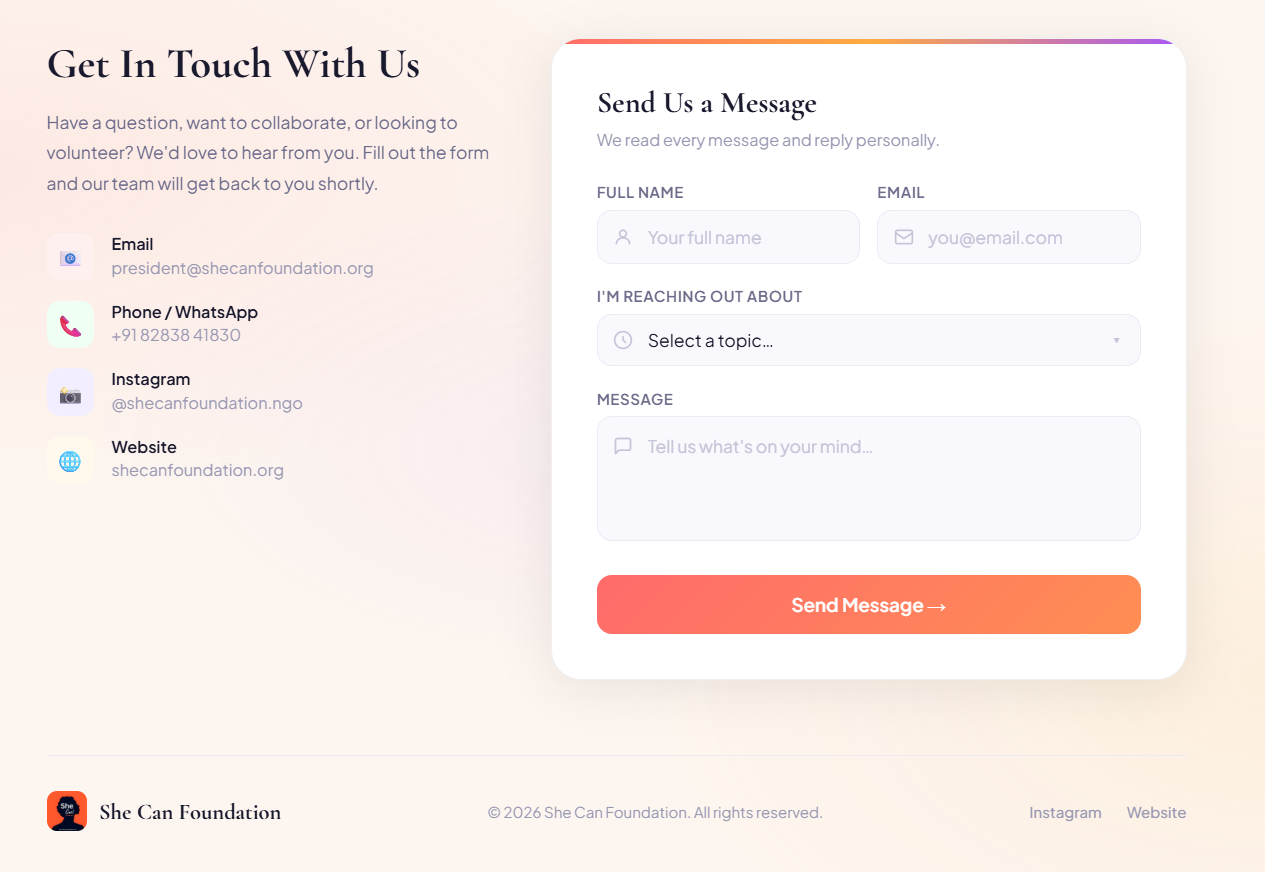
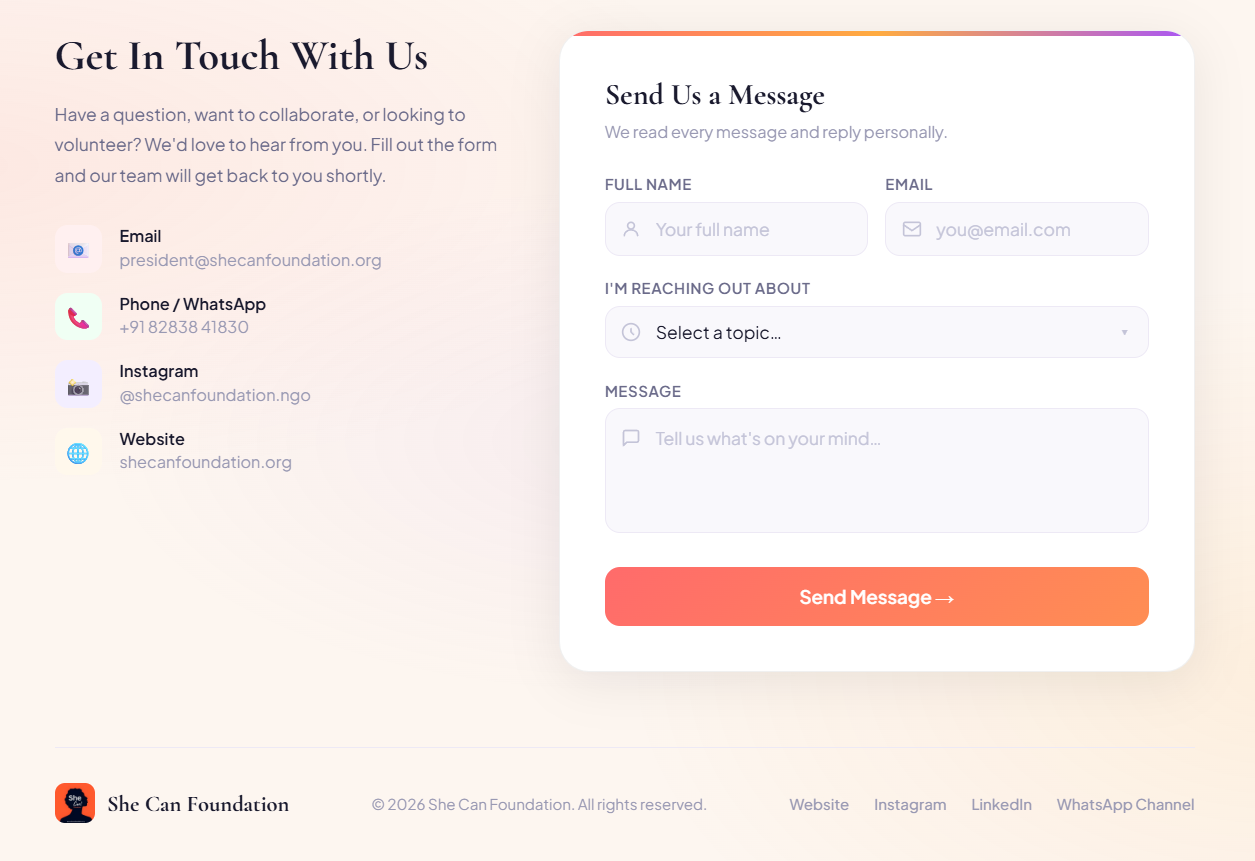
Update Correct Info

diff --git a/index.html b/index.html
@@ -274,8 +274,10 @@ textarea{resize:none;min-height:100px;padding-top:12px;line-height:1.6;}
     </div>
     <div class="footer-copy">© 2026 She Can Foundation. All rights reserved.</div>
     <div class="footer-links">
-      <a href="https://www.instagram.com/shecanfoundation.ngo" target="_blank">Instagram</a>
       <a href="https://shecanfoundation.org" target="_blank">Website</a>
+      <a href="https://www.instagram.com/shecanfoundation.ngo" target="_blank">Instagram</a>
+      <a href="https://www.linkedin.com/company/shecanfoundation" target="_blank">LinkedIn</a>
+      <a href="https://whatsapp.com/channel/0029Vb6aI3k5fM5ShePPks3z" target="_blank">WhatsApp Channel</a>
     </div>
   </footer>
 

diff --git a/README.md b/README.md
@@ -72,3 +72,5 @@ She Can Foundation is a youth-driven NGO working towards creating opportunities,
 
 - 🌐 Website: [shecanfoundation.org](https://shecanfoundation.org)
 - 📸 Instagram: [@shecanfoundation.ngo](https://www.instagram.com/shecanfoundation.ngo)
+- 💼 LinkedIn: [She Can Foundation](https://www.linkedin.com/company/shecanfoundation)
+- 📢 WhatsApp Channel: [She Can Foundation Updates](https://whatsapp.com/channel/0029Vb6aI3k5fM5ShePPks3z)
